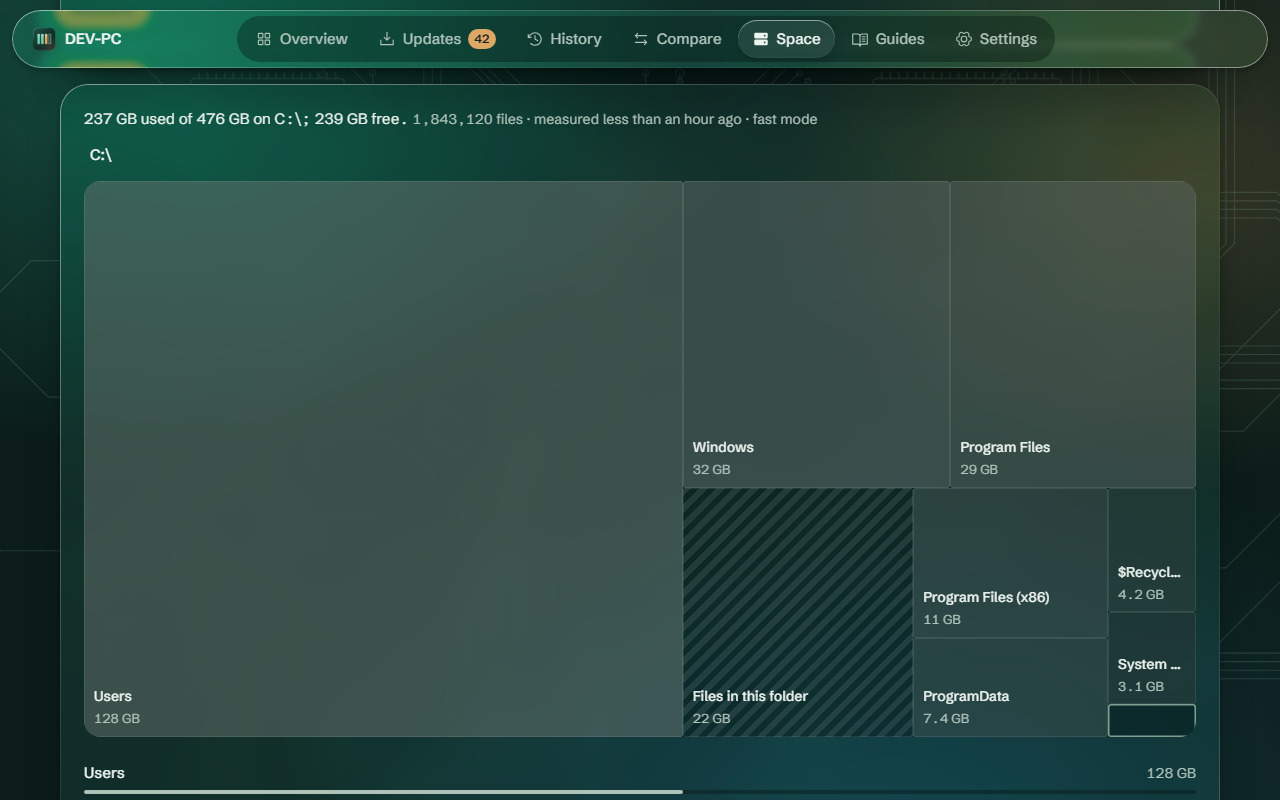
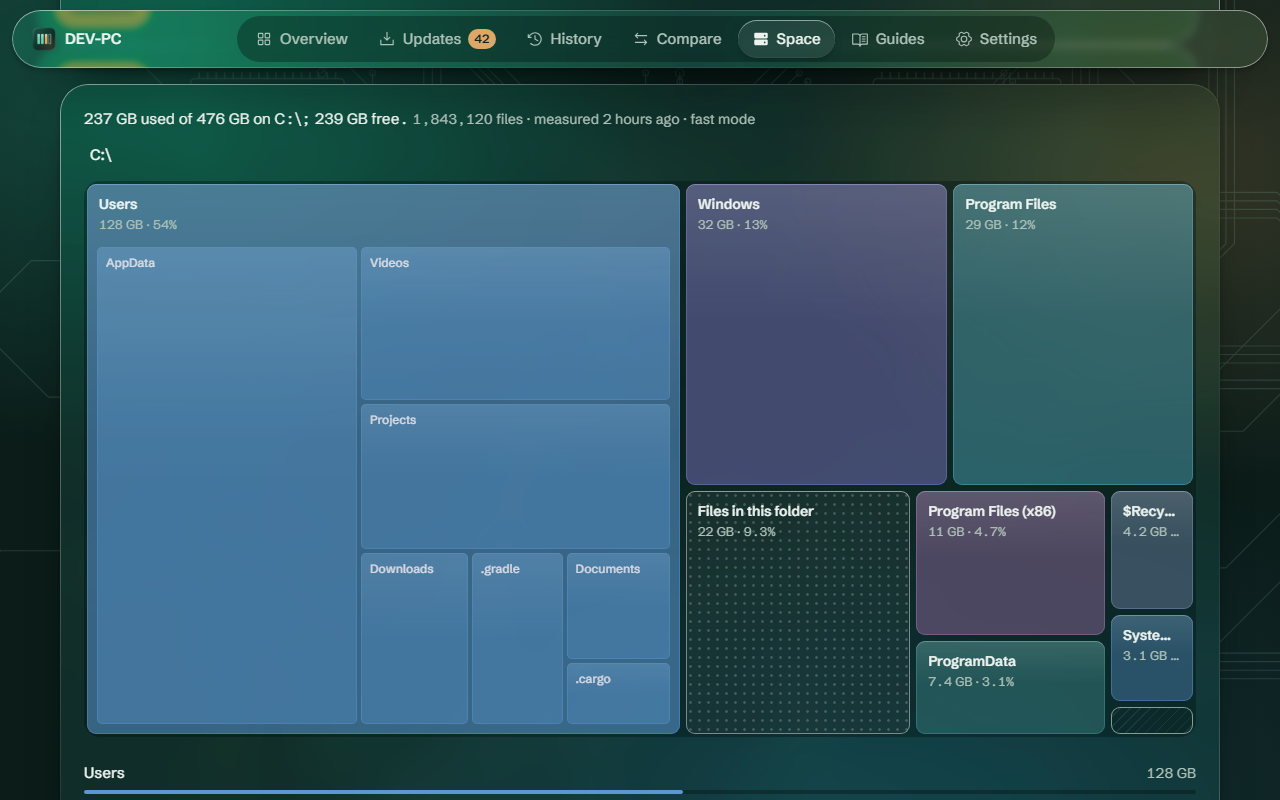
fix: el mapa de Espacio se lee mejor, con color por carpeta y lo que hay dentro de cada una (#296)

diff --git a/app/src/views/Space.tsx b/app/src/views/Space.tsx
@@ -35,6 +35,29 @@ interface Placed extends Tile {
   h: number;
 }
 
+/** A folder and, while it holds only one folder and almost nothing else, that folder too. */
+function chainOf(node: SpaceNode): SpaceNode[] {
+  const chain = [node];
+  let last = node;
+  while (last.children.length === 1 && last.children[0].bytes >= last.bytes * 0.9) {
+    last = last.children[0];
+    chain.push(last);
+  }
+  return chain;
+}
+
+/** A placed tile as CSS percentages of the area it was laid out in. */
+const box = (tile: Placed, width: number, height: number) => ({
+  left: `${(tile.x / width) * 100}%`,
+  top: `${(tile.y / height) * 100}%`,
+  width: `${(tile.w / width) * 100}%`,
+  height: `${(tile.h / height) * 100}%`,
+});
+
+/** A share of the shown total, like 54% or 0.8%. */
+const formatShare = (share: number) =>
+  new Intl.NumberFormat(language(), { style: "percent", maximumFractionDigits: share < 0.1 ? 1 : 0 }).format(share);
+
 /** Squarified treemap: fills rows along the short side while that keeps the tiles closest to squares. */
 function squarify(tiles: Tile[], width: number, height: number): Placed[] {
   const placed: Placed[] = [];
@@ -140,8 +163,13 @@ export function Space({ onError }: { onError(error: AppError | null): void }) {
   const current = trail.at(-1) ?? scan?.tree ?? null;
   const tiles = useMemo(() => (current ? tilesOf(current, trail.length === 0 ? whole : 0) : []), [current, trail.length, whole]);
   const placed = useMemo(() => squarify(tiles, 200, 100), [tiles]);
+  const tintOf = useMemo(() => {
+    const folders = tiles.filter((tile) => tile.kind === "folder").map((tile) => tile.key);
+    return (key: string) => (folders.includes(key) ? `var(--map-${(folders.indexOf(key) % 6) + 1})` : undefined);
+  }, [tiles]);
   const shownTotal = tiles.reduce((sum, tile) => sum + tile.bytes, 0);
-  const open = (node: SpaceNode) => setTrail([...trail, node]);
+  // Opening a folder skips the levels that hold a single folder and almost nothing else, like Users > you.
+  const open = (node: SpaceNode) => setTrail([...trail, ...chainOf(node)]);
   const files = allFiles ? (scan?.largest ?? []) : (scan?.largest ?? []).slice(0, 15);
 
   return (
@@ -222,23 +250,43 @@ export function Space({ onError }: { onError(error: AppError | null): void }) {
             </nav>
 
             <div className="treemap">
-              {placed.map((tile, index) => {
-                const label = `${tile.label}, ${formatBytes(tile.bytes)}`;
-                const style = { left: `${tile.x / 2}%`, top: `${tile.y}%`, width: `${tile.w / 2}%`, height: `${tile.h}%`, "--shade": `${Math.max(6, 22 - index * 2)}%` } as CSSProperties;
-                const roomy = tile.w > 14 && tile.h > 12;
-                const content = roomy && (
-                  <>
+              {placed.map((tile) => {
+                const share = shownTotal > 0 ? tile.bytes / shownTotal : 0;
+                const percent = formatShare(share);
+                const label = `${tile.label}, ${formatBytes(tile.bytes)}, ${percent}`;
+                // Bigger pieces sit a little lighter, so the eye finds the heavy ones first.
+                const style = { ...box(tile, 200, 100), "--tint": tintOf(tile.key), "--shade": `${Math.round(34 + 30 * Math.sqrt(share))}%` } as CSSProperties;
+                // Names need room: a tile shows its name and size, only its name, or nothing (the list below has them all).
+                const fits = tile.w > 13 && tile.h > 11 ? "full" : tile.w > 8 && tile.h > 7 ? "name" : "none";
+                const head = fits !== "none" && (
+                  <span className="tile-head">
                     <span className="tile-name">{tile.label}</span>
-                    <span className="tile-size">{formatBytes(tile.bytes)}</span>
-                  </>
+                    {fits === "full" && (
+                      <span className="tile-size">
+                        {formatBytes(tile.bytes)} · {percent}
+                      </span>
+                    )}
+                  </span>
+                );
+                // A big folder previews its own folders one level down, so a large block still says what it holds.
+                const inner = fits === "full" && tile.node && tile.h > 24 && tile.w > 22 ? squarify(tilesOf(chainOf(tile.node).at(-1)!, 0), tile.w, tile.h - 9) : [];
+                const body = inner.length > 1 && (
+                  <span className="tile-inner" aria-hidden="true">
+                    {inner.map((child) => (
+                      <i key={child.key} className="tile-cell" data-kind={child.kind} style={box(child, tile.w, tile.h - 9)}>
+                        {child.w > 15 && child.h > 8 && <span className="tile-cell-name">{child.label}</span>}
+                      </i>
+                    ))}
+                  </span>
                 );
                 return tile.node ? (
                   <button key={tile.key} className="tile" data-kind={tile.kind} style={style} title={label} aria-label={label} onClick={() => open(tile.node!)}>
-                    {content}
+                    {head}
+                    {body}
                   </button>
                 ) : (
                   <div key={tile.key} className="tile" data-kind={tile.kind} style={style} title={label} role="img" aria-label={label}>
-                    {content}
+                    {head}
                   </div>
                 );
               })}
@@ -256,7 +304,7 @@ export function Space({ onError }: { onError(error: AppError | null): void }) {
                   )}
                   <span className="row-note space-size">{formatBytes(tile.bytes)}</span>
                   <span className="space-bar" aria-hidden="true">
-                    <i style={{ width: `${shownTotal > 0 ? (tile.bytes / shownTotal) * 100 : 0}%` }} data-kind={tile.kind} />
+                    <i style={{ width: `${shownTotal > 0 ? (tile.bytes / shownTotal) * 100 : 0}%`, "--tint": tintOf(tile.key) } as CSSProperties} data-kind={tile.kind} />
                   </span>
                 </li>
               ))}

diff --git a/app/src/styles.css b/app/src/styles.css
@@ -13,6 +13,13 @@
   --medium: #e8c15a;
   --high: #f0746a;
   --manual: #7f9f93;
+  /* Space map only: the soldermask colors a board can come in. Never a signal. */
+  --map-1: oklch(66% 0.11 250);
+  --map-2: oklch(63% 0.12 287);
+  --map-3: oklch(70% 0.09 218);
+  --map-4: oklch(64% 0.11 322);
+  --map-5: oklch(63% 0.08 196);
+  --map-6: oklch(67% 0.07 266);
 
   /* Glass: fill, the tray that holds marks, its rim, and how it sits above the board. */
   --glass: rgb(205 236 222 / 0.075);
@@ -56,6 +63,12 @@
     --medium: #8f6600;
     --high: #bd3627;
     --manual: #7e988d;
+    --map-1: oklch(60% 0.12 250);
+    --map-2: oklch(56% 0.13 287);
+    --map-3: oklch(64% 0.10 218);
+    --map-4: oklch(58% 0.12 322);
+    --map-5: oklch(57% 0.09 196);
+    --map-6: oklch(61% 0.08 266);
 
     --glass: rgb(255 255 255 / 0.5);
     --glass-float: rgb(255 255 255 / 0.5);
@@ -2046,10 +2059,13 @@ code {
   font-weight: 500;
 }
 
+/* The map: each piece is a pane of glass on the board, its name and share on top, and a big folder shows its own
+   folders one level down. Loose files carry solder-pad dots; what no file explains is outlined like a manual update. */
 .treemap {
   position: relative;
   aspect-ratio: 2 / 1;
   overflow: hidden;
+  padding: 3px;
   border-radius: var(--r-tray);
   background: var(--tray);
 }
@@ -2058,38 +2074,48 @@ code {
   position: absolute;
   display: flex;
   flex-direction: column;
-  justify-content: flex-end;
-  gap: 2px;
   min-width: 0;
-  padding: 8px 10px;
+  padding: 10px 12px 12px;
   overflow: hidden;
-  border: 0;
-  border-radius: var(--r-mark);
-  outline-offset: -2px;
-  box-shadow: inset 0 0 0 1px var(--hairline);
-  background: color-mix(in srgb, var(--silk) var(--shade), transparent);
+  /* The transparent border is the gap between pieces, so the board shows through. */
+  border: 3px solid transparent;
+  border-radius: 12px;
+  background:
+    linear-gradient(180deg, rgb(255 255 255 / 0.1), transparent 46%) padding-box,
+    color-mix(in oklch, var(--tint, var(--silk)) var(--shade), transparent) padding-box;
+  box-shadow: inset 0 1px 0 rgb(255 255 255 / 0.18), inset 0 0 0 1px color-mix(in oklch, var(--tint, var(--silk)) 45%, transparent);
   color: var(--silk);
   font: inherit;
   text-align: start;
+  outline-offset: -4px;
 }
 
 button.tile {
   cursor: pointer;
-  transition: background-color 140ms ease-out;
+  transition: box-shadow 160ms var(--settle);
 }
 
+/* Hover lifts the piece: a brighter rim and a faint wash of light over it. */
 button.tile:hover {
-  background: color-mix(in srgb, var(--silk) calc(var(--shade) + 8%), transparent);
+  box-shadow: inset 0 1px 0 rgb(255 255 255 / 0.3), inset 0 0 0 1px color-mix(in oklch, var(--tint, var(--silk)) 80%, white), inset 0 0 0 999px rgb(255 255 255 / 0.06);
 }
 
 .tile[data-kind="files"],
 .tile[data-kind="other"] {
-  background: repeating-linear-gradient(135deg, color-mix(in srgb, var(--silk) 10%, transparent) 0 6px, transparent 6px 12px);
+  background:
+    radial-gradient(circle, color-mix(in srgb, var(--silk) 20%, transparent) 1.1px, transparent 1.6px) 0 0 / 9px 9px padding-box,
+    color-mix(in srgb, var(--silk) 5%, transparent) padding-box;
 }
 
 .tile[data-kind="system"] {
-  background: none;
-  box-shadow: inset 0 0 0 1.5px var(--manual);
+  background: repeating-linear-gradient(135deg, color-mix(in srgb, var(--manual) 14%, transparent) 0 1px, transparent 1px 7px) padding-box;
+  box-shadow: inset 0 0 0 1px var(--manual);
+}
+
+.tile-head {
+  display: grid;
+  gap: 1px;
+  min-width: 0;
 }
 
 .tile-name,
@@ -2101,14 +2127,53 @@ button.tile:hover {
 
 .tile-name {
   font-size: 14px;
-  font-weight: 500;
+  font-weight: 600;
+  letter-spacing: -0.005em;
 }
 
 .tile-size {
   color: var(--silk-soft);
-  font-size: 13px;
+  font-size: 12.5px;
   font-variant-numeric: tabular-nums;
 }
+
+/* One level down, drawn without labels: the shape of what the folder holds. */
+.tile-inner {
+  position: relative;
+  flex: 1;
+  min-height: 0;
+  margin: 10px -4px -4px;
+}
+
+.tile-cell {
+  position: absolute;
+  border: 2px solid transparent;
+  border-radius: 7px;
+  background:
+    linear-gradient(180deg, rgb(255 255 255 / 0.07), transparent 50%) padding-box,
+    color-mix(in oklch, var(--tint, var(--silk)) 34%, transparent) padding-box;
+  box-shadow: inset 0 0 0 1px color-mix(in oklch, var(--tint, var(--silk)) 40%, transparent);
+}
+
+.tile-cell[data-kind="files"],
+.tile-cell[data-kind="other"] {
+  background:
+    radial-gradient(circle, color-mix(in srgb, var(--silk) 16%, transparent) 1px, transparent 1.5px) 0 0 / 8px 8px padding-box,
+    color-mix(in srgb, var(--silk) 3%, transparent) padding-box;
+}
+
+.tile-cell-name {
+  position: absolute;
+  inset: 7px 9px auto;
+  overflow: hidden;
+  color: color-mix(in oklch, var(--silk) 82%, transparent);
+  font-size: 12px;
+  font-style: normal;
+  font-weight: 500;
+  text-overflow: ellipsis;
+  white-space: nowrap;
+}
+
 
 .space-rows .row {
   grid-template-columns: minmax(0, 1fr) auto;
@@ -2130,7 +2195,7 @@ button.tile:hover {
   display: block;
   height: 100%;
   border-radius: inherit;
-  background: var(--silk-soft);
+  background: var(--tint, var(--silk-soft));
 }
 
 .space-bar i[data-kind="system"] {

diff --git a/DESIGN.md b/DESIGN.md
@@ -11,6 +11,12 @@ colors:
   risk-medium: "#e8c15a"
   risk-high: "#f0746a"
   manual: "#7f9f93"
+  map-1: "oklch(66% 0.11 250)"
+  map-2: "oklch(63% 0.12 287)"
+  map-3: "oklch(70% 0.09 218)"
+  map-4: "oklch(64% 0.11 322)"
+  map-5: "oklch(63% 0.08 196)"
+  map-6: "oklch(67% 0.07 266)"
   glass-solid: "#142c27"
   substrate-light: "#d9e6df"
   silk-light: "#10302a"
@@ -142,6 +148,10 @@ Two families: the board and its silkscreen (neutrals), and copper with the risk 
 
 - **Low** (`risk-low`), **Medium** (`risk-medium`), **High** (`risk-high`): used for the risk mark, the ticks in the update strip and run results.
 - **Needs you** (`manual`): manual updates, always drawn as an outline, never filled.
+
+### Map tints
+
+- **Soldermask tints** (`map-1` to `map-6`: blue, violet, cyan, orchid, petrol, periwinkle): only in the Space map, one per folder in size order, shared by its tile, the folders previewed inside it and its bar in the list. They are the colors a board's soldermask comes in: cool and muted (OKLCH chroma 0.07 to 0.13), away from copper and the risk hues, so a folder never reads as an action or a risk. Loose files and system space stay neutral (solder-pad dots and the manual outline).
 
 ### Named Rules
 **The One Copper Rule.** Copper is the only accent. It marks the primary action, focus and counters, never decoration. A view never shows two copper buttons.
